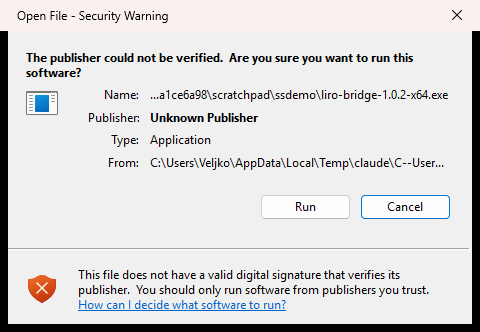
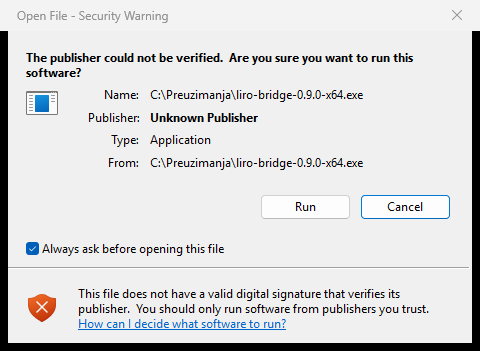
The publisher-warning figure is recaptured from the real v0.9.0
D-253 recorded this and left it: 09-upozorenje-izdavac.png showed
liro-bridge-1.0.2-x64.exe, a version that has never existed, and a From
line naming the owner's profile and an agent working directory. It is in
a guide a stranger reads, and it ships in both guides and both MSIs.

The file in the new figure is the published artefact and that is checked
rather than assumed: liro-bridge-0.9.0-x64.exe fetched from the Releases
page and compared against the release's own signed manifest, 11,361,280
bytes and sha256 3aa562bd…f3d0, both matching. The path is
C:\Preuzimanja — "Downloads" in Serbian, at the root of the drive, no
user name, no agent directory — and it was removed afterwards. The Mark
of the Web was written by hand ([ZoneTransfer] ZoneId=3), the dialog
raised by ShellExecute and cancelled by WM_CLOSE, and photographed with
PrintWindow so taking the picture did not take the foreground (D-122).
ShellExecute's own answer is the evidence nothing ran: "The operation
was canceled by the user." No process, nothing new in any Uninstall
hive, both registry keys re-exported byte-for-byte identical.

480x332 becomes 480x351: same width, nineteen points taller, because
this Windows shows an "Always ask before opening this file" row the old
capture did not. The name is unchanged so build.ps1's $expectedImages
and the eleven GuideImg components are untouched.

Eleven figures. All eleven checked, each referenced by both guides — 11
[…]

diff --git a/docs/decisions.md b/docs/decisions.md
@@ -20090,3 +20090,176 @@ Windows machines as a first sieve; and the stranger.
   that the visible window is not the process's to hide, and moving
   somebody's terminal to take a reading is a worse manner than
   explaining the reading.
+
+---
+
+## D-261 — The SmartScreen publisher figure is recaptured from the real v0.9.0 on a path with nothing personal in it; all eleven figures in both guides were checked, and one other carries the owner's own certificate
+
+**Date:** 2026-09-13
+**Phase:** F10
+
+**What this closes.** [[D-253]]'s last section recorded a defect in a
+figure it did not add, and left it: `09-upozorenje-izdavac.png` showed
+
+```
+Name:  ...a1ce6a98\scratchpad\ssdemo\liro-bridge-1.0.2-x64.exe
+From:  C:\Users\Veljko\AppData\Local\Temp\claude\C--User...
+```
+
+Two things wrong with a picture a stranger reads. **`1.0.2` is a version
+that has never existed** — the only release is 0.9.0 — so the guide
+showed a reader a file name they cannot have. And the `From` line named
+the owner's own profile and an agent working directory, which is the
+sort of thing SPEC §18.3 keeps out of a log file and has no more
+business in a shipped document.
+
+### How it was recaptured
+
+The owner's conditions were: the real v0.9.0 file, a path with nothing
+personal in it, and no installation — raise the dialog, capture, cancel.
+
+*The file is the published artefact, and that is checked rather than
+assumed.* `liro-bridge-0.9.0-x64.exe` was fetched from the Releases page
+and compared against the release's own signed manifest:
+
+```
+size    want 11,361,280  got 11,361,280   OK
+sha256  want 3aa562bd0b7f5921e6409fc88302fea8a84193a1e2d1a60cbaabc1ee97ecf3d0
+        got  3aa562bd0b7f5921e6409fc88302fea8a84193a1e2d1a60cbaabc1ee97ecf3d0
+```
+
+That is the exact artefact [[D-245]]'s update check would verify, so the
+figure is of the file a reader actually downloads.
+
+*The path is `C:\Preuzimanja`* — "Downloads" in Serbian, at the root of
+the drive, containing no user name and no agent directory. It is
+plausible to a Serbian reader and says nothing about whose machine it
+is. It was removed afterwards.
+
+*The Mark of the Web was written by hand*, which is the authorisation
+[[D-253]] said this needed and does not need a browser:
+
+```
+liro-bridge-0.9.0-x64.exe:Zone.Identifier
+  [ZoneTransfer]
+  ZoneId=3
+```
+
+*The dialog was raised by `ShellExecute` and cancelled by `WM_CLOSE`* —
+a window message, never synthetic input ([[D-094]]) — and photographed
+with `PrintWindow`, so taking the picture did not take the foreground
+from whoever was using the machine ([[D-122]]). The launch's own result
+is the evidence that nothing ran:
+
+```
+ShellExecute refused or was cancelled: The operation was canceled by the user.
+```
+
+Checked afterwards: no `liro-bridge` process, nothing new in any
+Uninstall hive (the "Liro Bridge 0.9.0" row is the hand-installed
+product that was there before), and both registry keys re-exported
+byte-for-byte identical to the exports taken before any of this began.
+
+### What the new figure says
+
+```
+Open File - Security Warning
+The publisher could not be verified. Are you sure you want to run this software?
+  Name:       C:\Preuzimanja\liro-bridge-0.9.0-x64.exe
+  Publisher:  Unknown Publisher
+  Type:       Application
+  From:       C:\Preuzimanja\liro-bridge-0.9.0-x64.exe
+  [ Run ]  [ Cancel ]
+  [x] Always ask before opening this file
+```
+
+`Unknown Publisher`, capital P — which is the spelling [[D-253]] went to
+the trouble of establishing for *this* dialog, as against SmartScreen's
+lower-case `publisher`. Both guides already quote it that way and neither
+needed changing.
+
+**480 × 332 becomes 480 × 351.** Same width, nineteen points taller: the
+new capture carries the **"Always ask before opening this file"**
+checkbox row, which the old one did not. That is what this Windows shows
+and it is ticked by default; neither guide's text mentions it, neither
+needs to, and leaving it alone is the correct thing for a reader to do.
+
+The file name is unchanged, so `build/msi/build.ps1`'s
+`$expectedImages` and `liro-bridge.wxs`'s eleven `GuideImg` components
+are untouched, and [[D-107]]'s `.gitattributes` protection still applies
+(`git check-attr` reports `text: unset`).
+
+### Every other figure, checked
+
+**Eleven figures. All eleven checked. Each is referenced by both
+`Uputstvo.html` and `Guide.html` — 11 references, 11 distinct, in each.**
+Every one was looked at, not grepped.
+
+| Figure | Version shown | Identity on it | Verdict |
+|---|---|---|---|
+| 01 dokumenti-prazno | — | none | clean |
+| 02 dokumenti | — | invented file names (`Faktura 2026-114.pdf`, `Ugovor o delu.pdf`, `Izjava.pdf`) | clean |
+| 03 sertifikat | — | **invented** signer `Ana Petrović`, thumbprint `7E5B3F2A` | clean |
+| 04 metod | — | none | clean |
+| 05 napredak | — | the same invented file names | clean |
+| 06 izvestaj | — | invented path `C:\Users\Ana\Dokumenti\Fakture` | clean |
+| 07 dnevnik | — | **`B3D1ECCE`, four times** | **finding, below** |
+| 08 podesavanja | — | every field empty or a default | clean |
+| 09 upozorenje-izdavac | **was 1.0.2** | **was the owner's profile and an agent directory** | recaptured here |
+| 10 smartscreen | — | none | clean |
+| 11 smartscreen-vise-informacija | 0.9.0, real | none | clean |
+
+Eight of the eleven are clean because somebody took care: the signer is
+invented, her documents are invented, her folder is invented, and the
+settings window was photographed empty. That is worth saying, because it
+is the reason this sweep found one thing rather than nine.
+
+### The one other finding, reported rather than fixed
+
+**`07-dnevnik.png` shows `B3D1ECCE` on all four audit entries. That is
+the owner's own MUP certificate**, named in [[D-209]] in as many words:
+"The MUP certificate on this machine (`…B3D1ECCE`, ВЕЉКО СТАНОЈЕВИЋ, MUP
+Gradjani CA 4)".
+
+It is the same class as the defect this entry fixes — real data from the
+owner's machine in a document a stranger reads — and it is inconsistent
+with the guide's own care three figures earlier, where the certificate
+step shows an invented signer with an invented thumbprint `7E5B3F2A`.
+SPEC §6.7 puts the thumbprint in the audit log precisely because it
+identifies the signer's certificate; publishing eight characters of the
+real one is a smaller thing than a name or a path and is not nothing.
+
+**Not fixed here**, for the reason [[D-253]] gives for not fixing 09
+while it was in there: recapturing it means writing invented entries
+into an audit store and photographing the window, which is a step the
+owner has not asked for, and a fix made quietly inside a change about
+something else is how a step nobody chose ships. It is a small piece of
+work — [[D-093]] already did exactly that once, building four audit
+entries by hand to photograph their colours — and it needs one
+instruction.
+
+### What this does not establish
+
+The figure is of 0.9.0's plain EXE on this machine's **English**
+Windows. A Serbian Windows shows this dialog in Serbian and there is no
+picture of that; both guides already say so in words and name every
+button in both languages, which is the trade [[D-242]] made and
+[[D-253]] reaffirmed, and this entry does not reopen it.
+
+### Rejected
+
+- **Building the EXE locally instead of downloading the published
+  one.** The dialog shows only a file name and a folder, so no pixel
+  would differ — and the figure would then be of a file that is not the
+  one anybody can download, which is the same kind of untruth as
+  `1.0.2`, just harder to notice.
+- **Capturing in `C:\Users\Public\Downloads`.** Writable without
+  elevation and free of a user name, and it reads as a place nobody's
+  downloads actually go. `C:\Preuzimanja` is short, plausible and
+  equally anonymous.
+- **Leaving the "Always ask before opening this file" row out by
+  cropping to the old figure's height.** The guide's whole instruction
+  in that section is *read what is on the screen*; a figure edited to
+  match an older screenshot is a figure that no longer matches the
+  screen.
+- **Recapturing `07-dnevnik.png` in the same pass.** Above.
